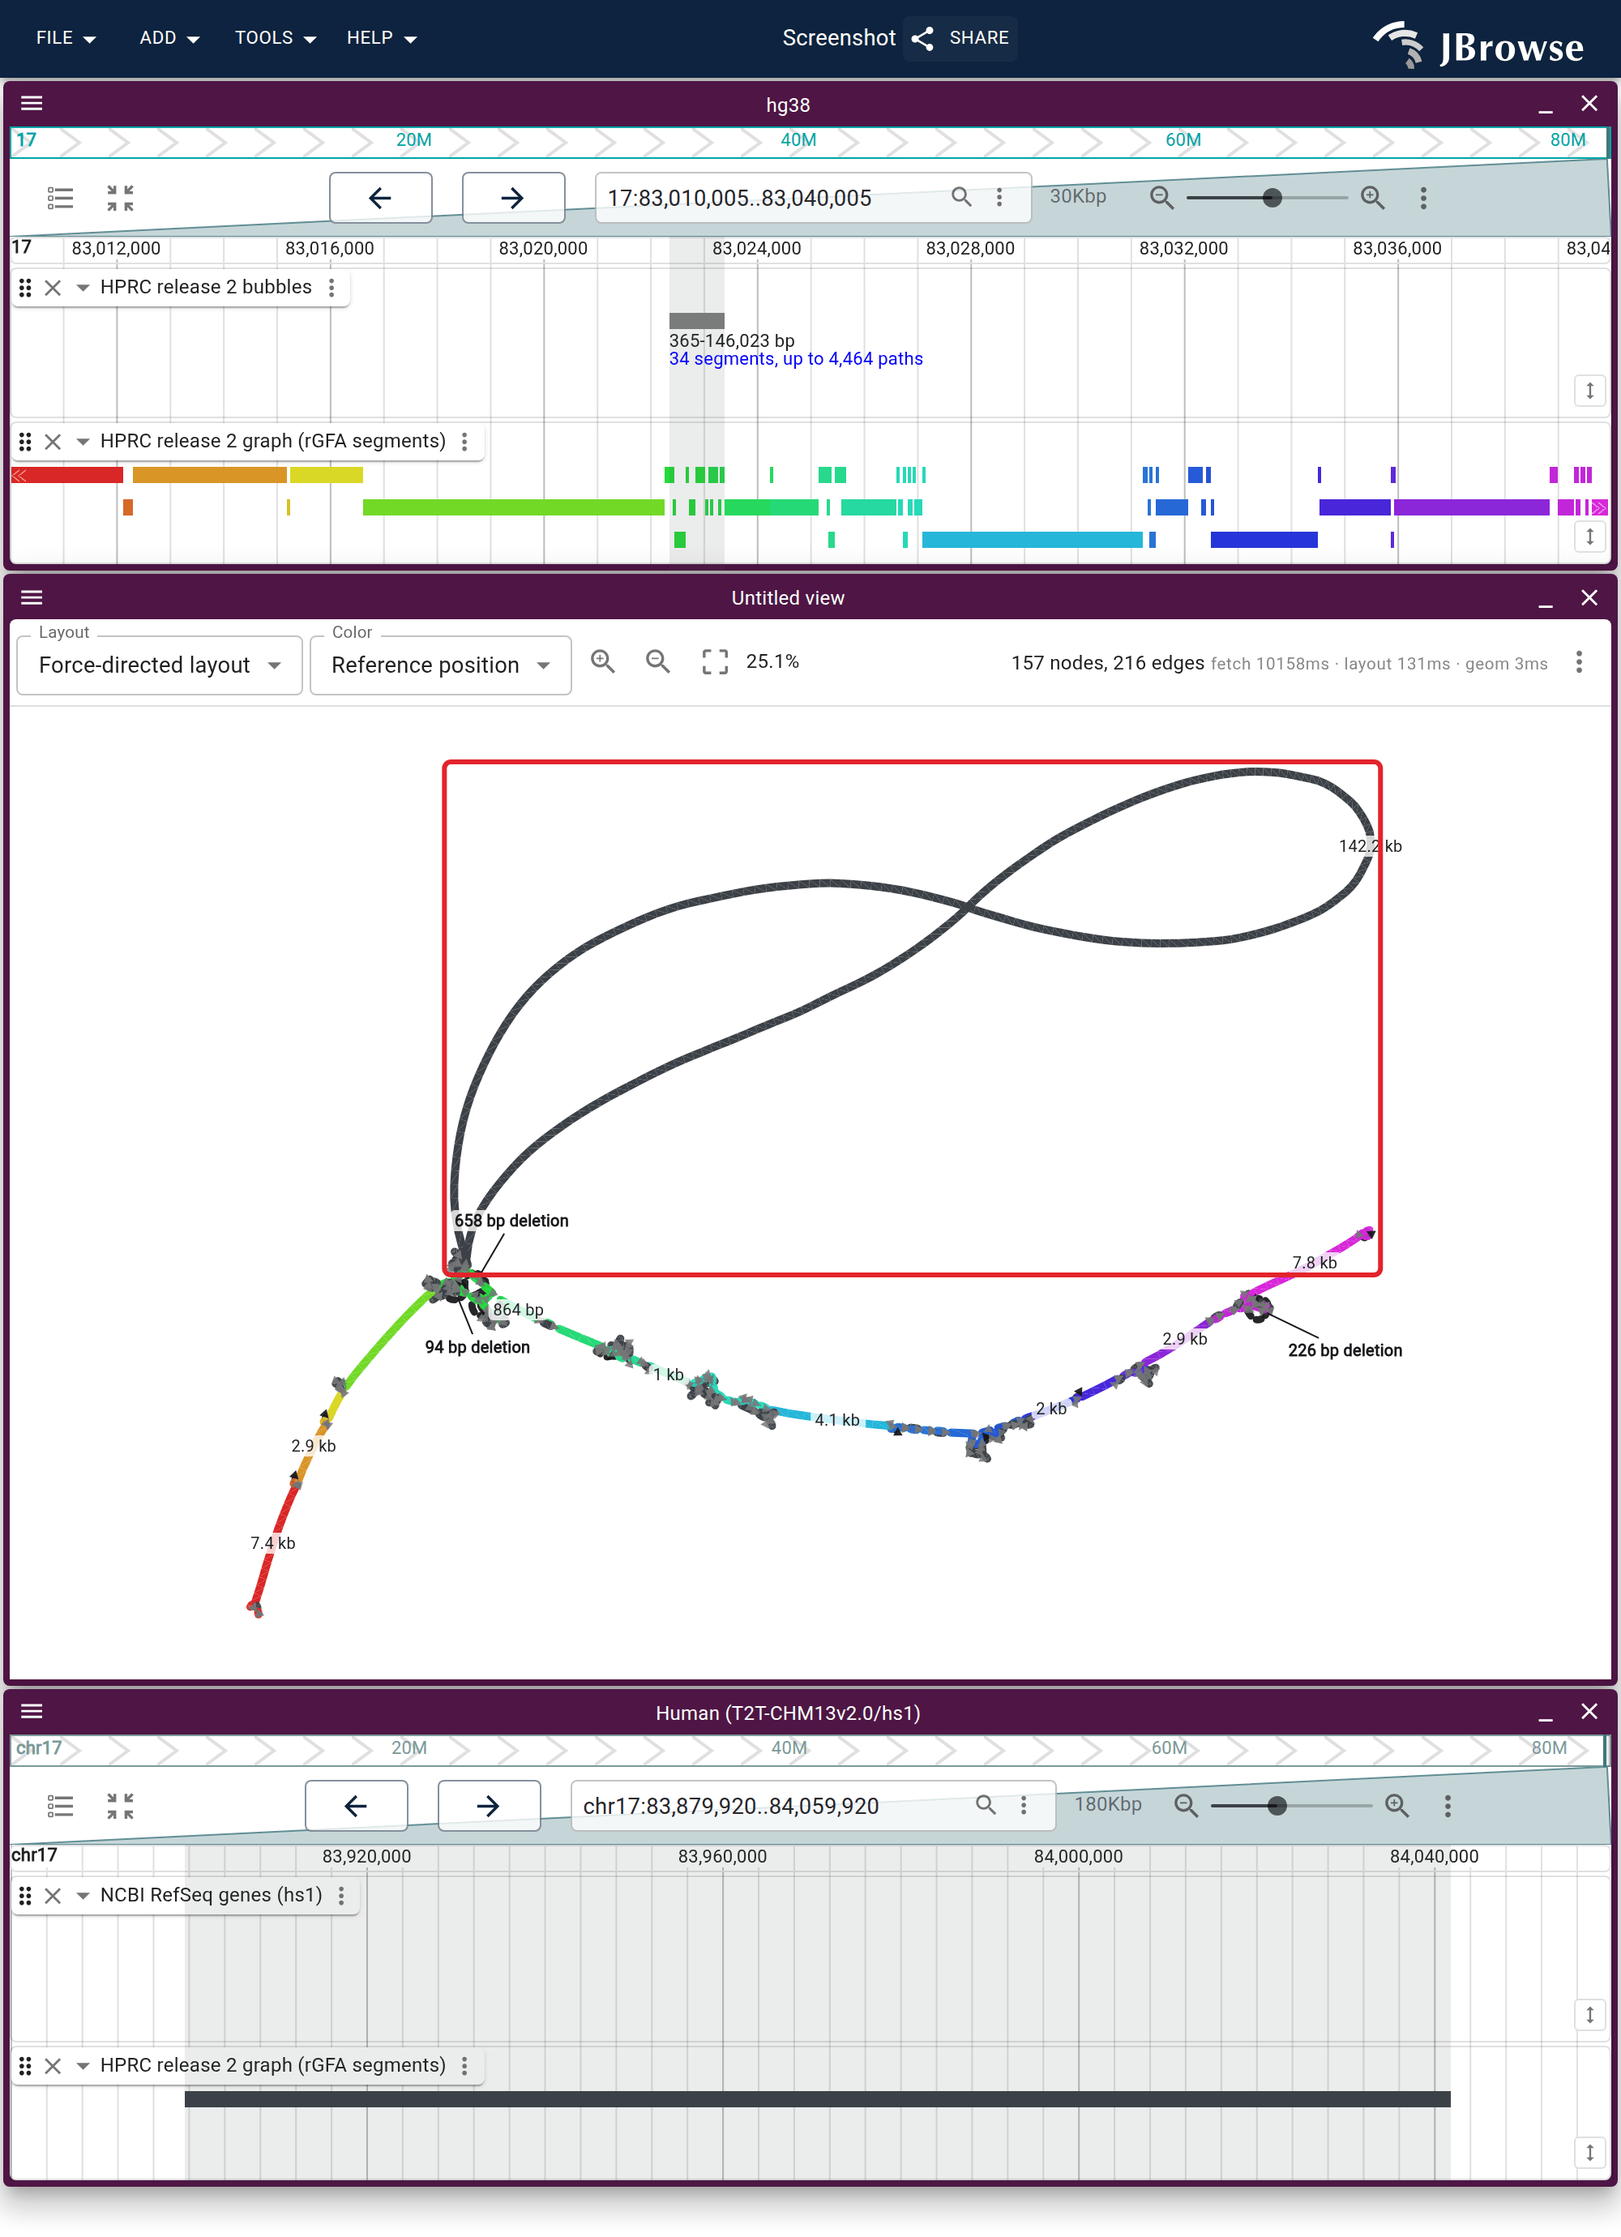
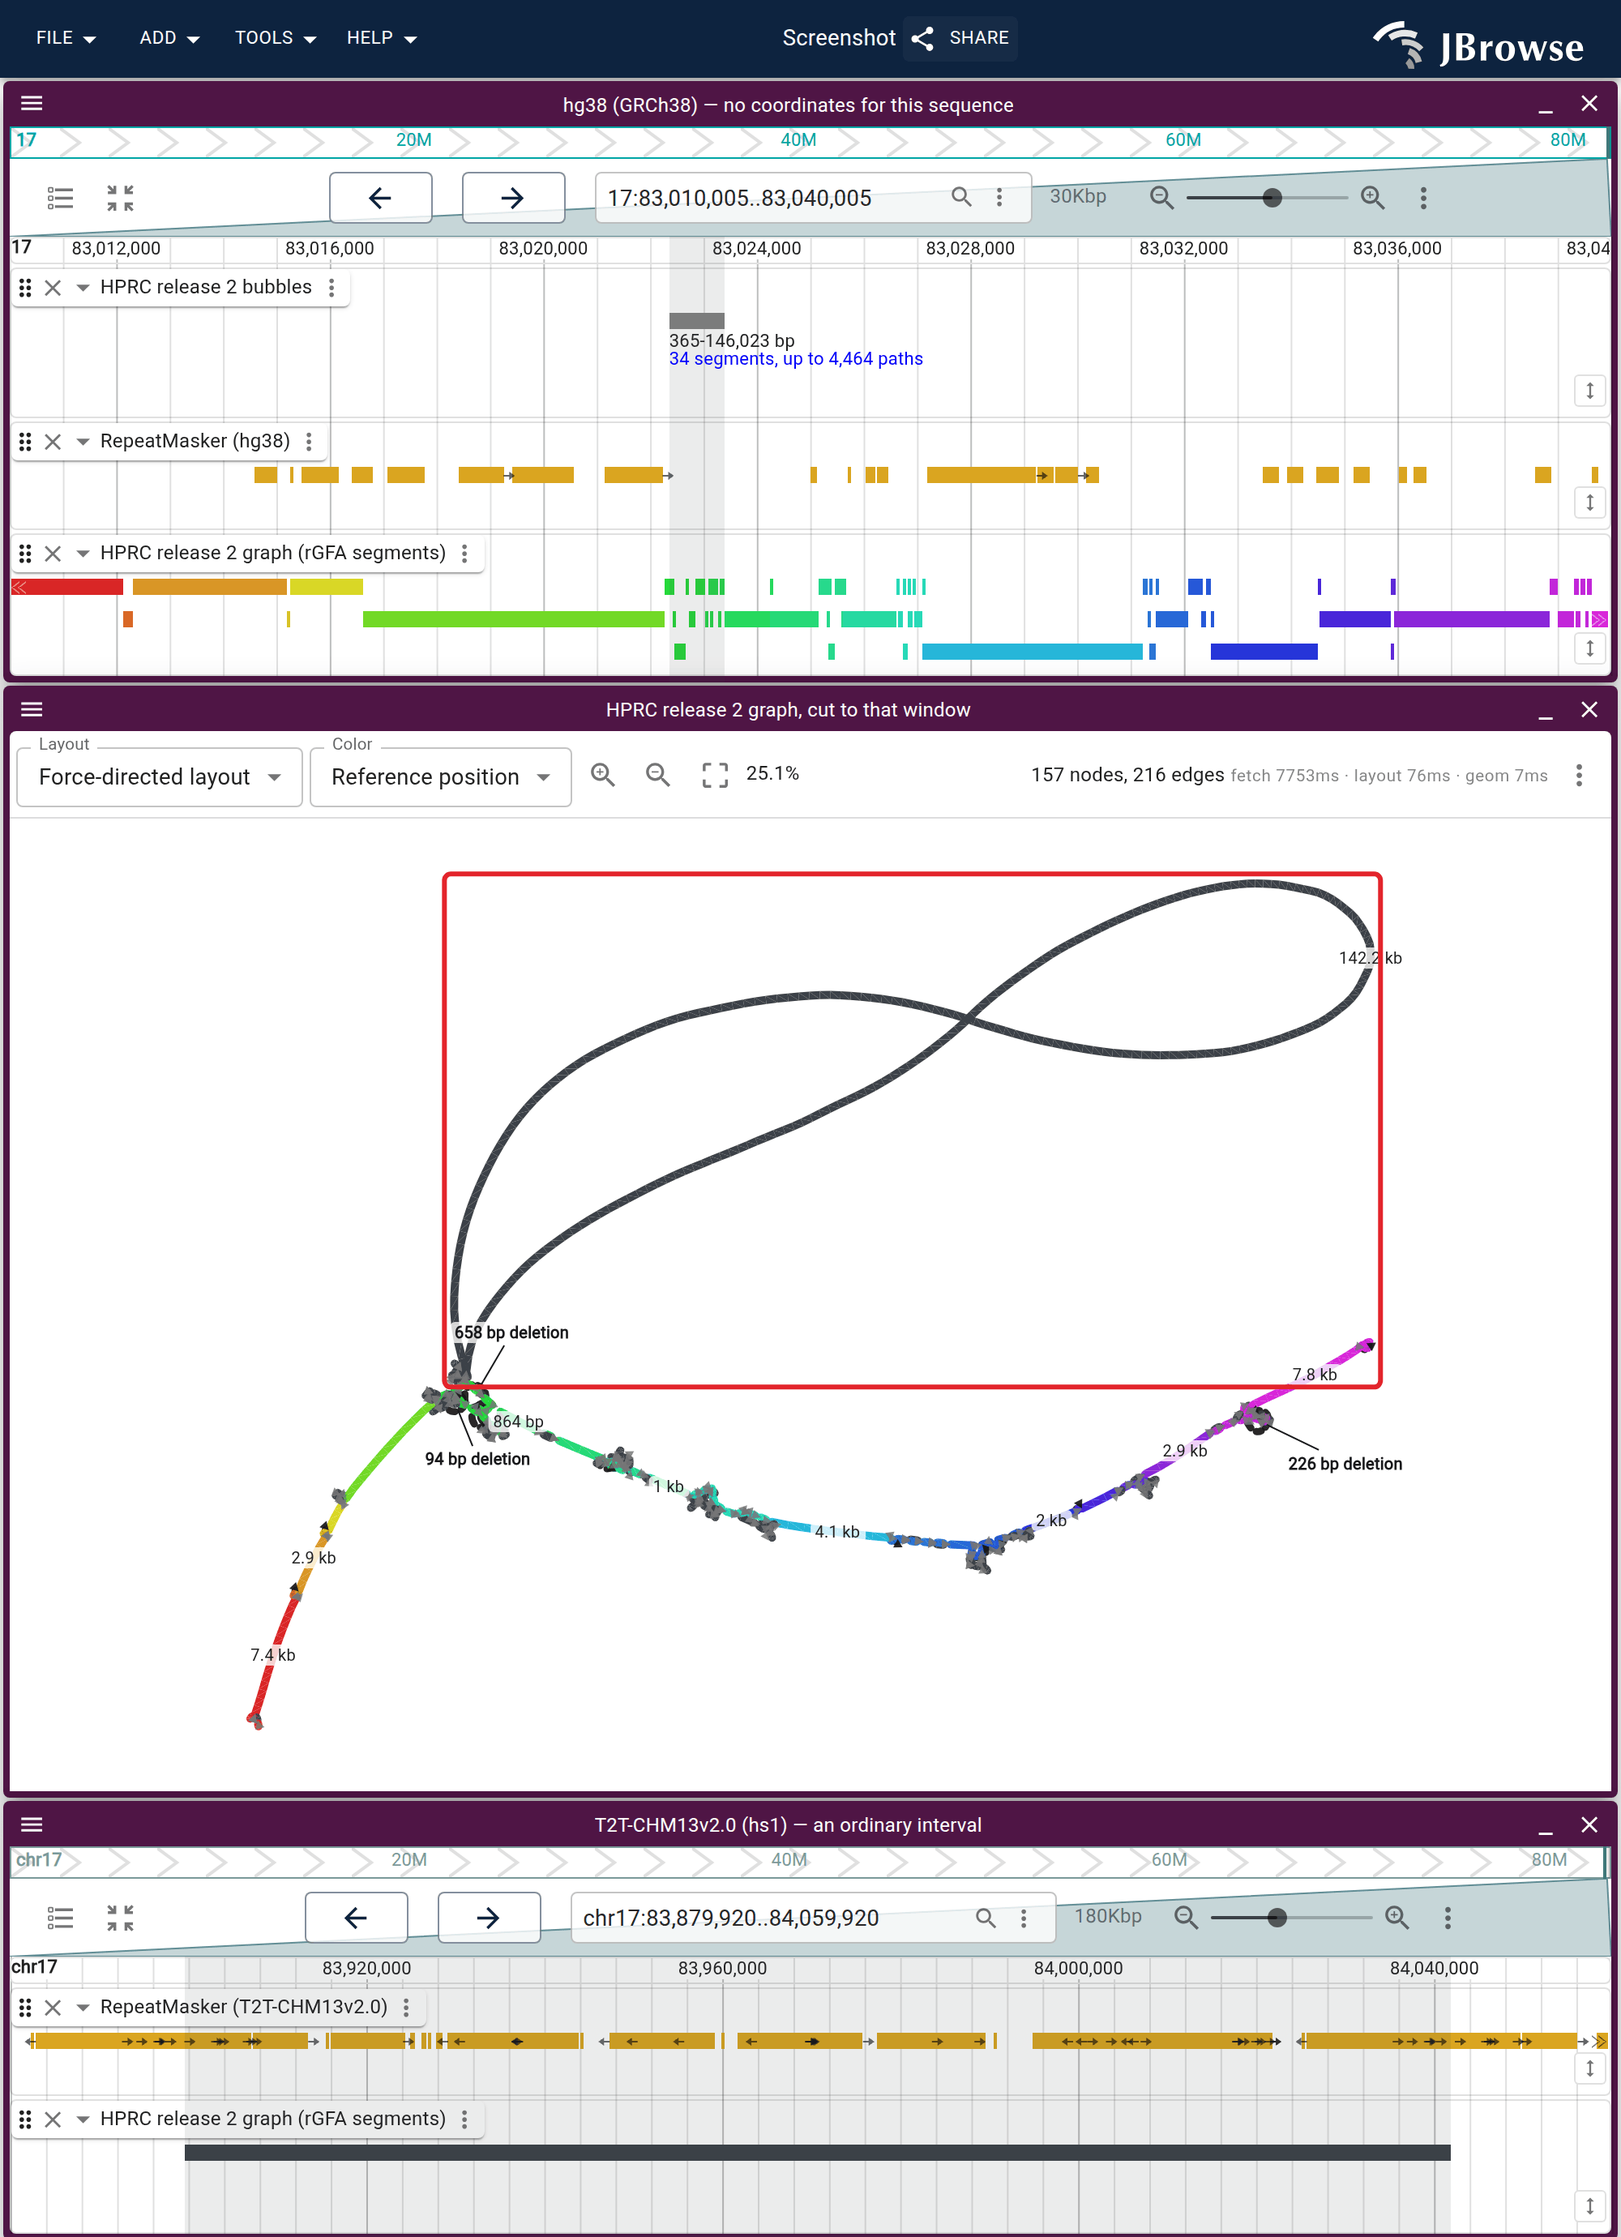
docs(hprc): name the CHM13 figure's panes, and give both a repeat lane
The node-menu figure ringed a black node and produced a 12 kb band, with
nothing in the frame joining the two (review: "it looks like this is
highlighting a 'black' node, instead of the green one"). It is the right node:
s318599 is 1,775 bp of HG01433 hap 2, black because the ramp is reference
position and an allele has none, and the band is the 12,021 bp backbone segment
it attaches across — which is HLA-DRB5. The callout says both numbers.

The CHM13 figure names its three panes through displayName rather than an
overlay, and carries UCSC RepeatMasker on both linear panes: the CHM13-only
142 kb is a near-continuous LINE/L1 run where the GRCh38 window it attaches to
is broken up. It is not a gap GRCh38 never closed — the only hg38 gap record
past chr17:82.5 Mb is the terminal telomere. The empty hs1 gene lane is gone.

Claude-Session: https://claude.ai/code/session_015YyNaRBzEzrDFgSu9gt3Yi

diff --git a/website/scripts/specs/graph.ts b/website/scripts/specs/graph.ts
@@ -258,7 +258,24 @@ const HOVERED_ALLELE = 's2037'
 // The off-reference allele pangenome/hprc_node_menu right-clicks, named rather
 // than measured — see HOVERED_ALLELE. `node scripts/probe-graph-nodes.ts
 // pangenome/hprc_node_menu` prints the cut's ids with their lengths and ranks.
+//
+// It is 1,775 bp of HG01433 hap 2 (`CM086511.1:32,520,440-32,522,215` in the
+// links index), and the two backbone segments it hangs off are s101144, ending
+// at chr6:32,517,416, and s101146, starting at 32,529,437 — so the interval it
+// attaches across is the 12,021 bp s101145, which is what **Highlight in hg38**
+// writes into the linear view. That is also, near exactly, HLA-DRB5
+// (chr6:32,517,353-32,530,287), the gene present only on DR51 haplotypes.
+//
+// Which is why the frame needs the callout below (review: "it looks like this is
+// highlighting a 'black' node, instead of the green one, which is, afaict, the
+// reference path"). Under the reference-position ramp black means "no reference
+// position", i.e. this IS the allele the figure is about, and the green 12 kb
+// node beside it is the reference segment the highlight lands on. Nothing in the
+// frame joined the two, so a ring on a black node over a band 12 kb wide read as
+// the wrong node being ringed.
 const HPRC_ALLELE = 's318599'
+const HPRC_ALLELE_LABEL =
+  'HG01433.2 allele: 1.8 kb\nwhere hg38 has 12 kb (HLA-DRB5)'
 
 // K12's genes, so the linear half of a launch figure says which genes the
 // clicked segment covers rather than being a lane of anonymous blocks. Hosted
@@ -735,6 +752,60 @@ function haplotypeGeneLane(trackId: string) {
     geneGlyphMode: 'longestCoding',
     displayMode: 'compact',
     height: 70,
+  }
+}
+
+// UCSC's RepeatMasker on each of the two human assemblies the CHM13 figure
+// draws, as session tracks: neither is in the fixture config, and both panes
+// need one for the two to be comparable. hg38's is jbrowse.org's own tabix'd
+// copy (the host every other lane in these figures reads); hs1 has no copy
+// there, so it comes off hgdownload's bigBed, which answers ranged reads with
+// CORS in well under a second.
+const HG38_RMSK_TRACK = {
+  type: 'FeatureTrack',
+  trackId: 'hg38_rmsk_ucsc',
+  name: 'RepeatMasker (hg38)',
+  assemblyNames: ['hg38'],
+  adapter: {
+    type: 'BedTabixAdapter',
+    bedGzLocation: {
+      uri: 'https://jbrowse.org/ucsc/hg38/rmsk.bed.gz',
+      locationType: 'UriLocation',
+    },
+    index: {
+      location: {
+        uri: 'https://jbrowse.org/ucsc/hg38/rmsk.bed.gz.csi',
+        locationType: 'UriLocation',
+      },
+      indexType: 'CSI',
+    },
+  },
+}
+const HS1_RMSK_TRACK = {
+  type: 'FeatureTrack',
+  trackId: 'hs1_rmsk_ucsc',
+  name: 'RepeatMasker (T2T-CHM13v2.0)',
+  assemblyNames: ['hs1'],
+  adapter: {
+    type: 'BigBedAdapter',
+    bigBedLocation: {
+      uri: 'https://hgdownload.soe.ucsc.edu/gbdb/hs1/t2tRepeatMasker/chm13v2.0_rmsk.bb',
+      locationType: 'UriLocation',
+    },
+  },
+}
+
+// A repeat lane is read as a density, not as a list of elements: collapsed, so
+// the whole annotation is one strip whose coverage of the axis is the thing to
+// compare between the two panes, and no labels, because 171 repeat names over
+// 180 kb is a wall of small print that says nothing the strip does not.
+function repeatLane(trackId: string) {
+  return {
+    trackId,
+    type: 'LinearBasicDisplay',
+    displayMode: 'collapsed',
+    showLabels: 'none',
+    height: 34,
   }
 }
 
@@ -2691,8 +2762,28 @@ export const graphSpecs: ScreenshotSpec[] = [
   // that window, where the boxed node is 142 kb of CHM13 attached at a 75 bp
   // anchor -- an insertion the reference has no coordinates for, which is why the
   // top pane cannot show it. Bottom: that node on CHM13's own chr17, where it is
-  // an ordinary interval with RefSeq genes over it and the same segments track
-  // draws it as one feature.
+  // an ordinary interval and the same segments track draws it as one feature.
+  //
+  // A REPEATMASKER LANE ON BOTH PANES, which is what the two panes are otherwise
+  // missing (review: "there is no gene in this region, but if some other track
+  // would help potentially explain why this was missed in hg38 e.g. repeats can
+  // add that"). There is no gene, and there is no assembly gap either -- UCSC's
+  // hg38 `gap` track has one record past 82.5 Mb on chr17 and it is the terminal
+  // 10 kb telomere, so this is a real insertion allele rather than a hole GRCh38
+  // never closed. What the lanes do show is the mechanism: the two are the same
+  // UCSC RepeatMasker annotation and the CHM13 interval is nearly solid where the
+  // GRCh38 window it attaches to is sparse, almost all of it LINE/L1.
+  //
+  // The hs1 lane is hgdownload's bigBed, which the note below rules out for the
+  // 2bit and does not rule out here: that failure was a whole-file GET of a
+  // multi-gigabyte sequence file, where this is a handful of ranged index reads
+  // over a 180 kb window, and hgdownload serves those with CORS in well under a
+  // second. The hg38 lane is jbrowse.org's own tabix'd copy, which is what the
+  // rest of these figures read.
+  //
+  // The bottom pane's gene lane is GONE with it, for the reason the top pane
+  // never had one: `jbrowse.org/ucsc/hs1/hs1.gff.gz` has nothing in this window,
+  // so it was 70 px of empty lane under a caption about a 142 kb insertion.
   //
   // `resolveContributors` matches a node's PanSN sample against the session's
   // assembly *names*, so the assembly has to be named `CHM13` for the node menu to
@@ -2710,9 +2801,18 @@ export const graphSpecs: ScreenshotSpec[] = [
     mode: 'url',
     name: 'pangenome/hprc_chm13_allele',
     url: sessionSpec(HPRC_CONFIG, {
+      sessionTracks: [HG38_RMSK_TRACK, HS1_RMSK_TRACK],
       views: [
         {
           type: 'LinearGenomeView',
+          // Which pane is which, in the app rather than over it (review: "might
+          // want text annotation toward the top that says HG38 and text
+          // annotation at the bottom that says T2T-CHM13v2.0"). A view header
+          // falls back to its assembly names, which read `hg38` and
+          // `Human (T2T-CHM13v2.0/hs1)` and are easy to miss between three
+          // panes; naming all three, graph included, leaves no `Untitled view`
+          // in the middle of the stack.
+          displayName: 'hg38 (GRCh38) — no coordinates for this sequence',
           assembly: 'hg38',
           loc: CHM13_WINDOW,
           highlight: [{ ...CHM13_BUBBLE, color: 'rgba(60,65,72,0.10)' }],
@@ -2732,11 +2832,13 @@ export const graphSpecs: ScreenshotSpec[] = [
               jexlFiltersSetting: ['jexl:feature.longestAlleleLength>100000'],
               height: 60,
             },
+            repeatLane(HG38_RMSK_TRACK.trackId),
             hprcSegmentsLane(CHM13_REGION),
           ],
         },
         {
           type: 'GraphGenomeView',
+          displayName: 'HPRC release 2 graph, cut to that window',
           loadedTrackId: SEGMENTS_TRACK,
           loadedRegion: CHM13_REGION,
           layoutMode: 'force',
@@ -2744,19 +2846,14 @@ export const graphSpecs: ScreenshotSpec[] = [
         },
         {
           type: 'LinearGenomeView',
+          displayName: 'T2T-CHM13v2.0 (hs1) — an ordinary interval',
           assembly: 'hs1',
           loc: CHM13_ALLELE_WINDOW,
           // the node's own span, drawn by the app from its coordinates rather
           // than painted over the capture
           highlight: [{ ...CHM13_ALLELE, color: 'rgba(60,65,72,0.10)' }],
           tracks: [
-            {
-              trackId: 'hs1_ncbiRefSeq_ucsc',
-              type: 'LinearBasicDisplay',
-              geneGlyphMode: 'longestCoding',
-              displayMode: 'compact',
-              height: 70,
-            },
+            repeatLane(HS1_RMSK_TRACK.trackId),
             // the same lane as the pane above, deliberately: a display's config
             // is per track, so a second color here would repaint the first pane
             // too. It needs no second color anyway -- the ramp's other branch
@@ -3268,11 +3365,26 @@ export const graphSpecs: ScreenshotSpec[] = [
     // says which node: a context menu opens AT the cursor, so it covers the thing
     // it was opened on, and in a force drawing there is no row label to fall back
     // on.
+    //
+    // The label is what the ring alone could not say (see HPRC_ALLELE): both
+    // numbers are the graph's own, so the frame states that a 1.8 kb node ringed
+    // in black produced a 12 kb band, rather than leaving the mismatch to be read
+    // as the wrong node being ringed. Placed up and left of the node, which is
+    // the empty corner of this drawing; the menu takes the other side.
     annotations: [
       {
         type: 'circle',
         anchor: { view: 1, graphNode: HPRC_ALLELE },
         radius: 22,
+      },
+      {
+        type: 'text',
+        text: HPRC_ALLELE_LABEL,
+        anchor: { view: 1, graphNode: HPRC_ALLELE },
+        dx: -120,
+        dy: -170,
+        maxWidth: 230,
+        fontSize: 16,
       },
       { type: 'box', anchor: { text: 'Highlight in hg38' } },
     ],

diff --git a/website/docs/tutorials/pangenome_hprc.md b/website/docs/tutorials/pangenome_hprc.md
@@ -429,7 +429,7 @@ At HPRC scale the same answer comes from `minigraph --call` over the assemblies,
 from the `.gbz` and vg, or from the [callset](#the-variant-callset) at that
 site.
 
-<Figure caption="Right-clicking one haplotype's allele (circled), over the band Highlight in hg38 left in the linear view above. The menu works in the GRCh38 interval the allele attaches to, not the haplotype's own coordinates: that assembly is not loaded, and no session loads all 464. The band stays until it is removed, so the answer survives letting go of the mouse." src="/img/pangenome/hprc_node_menu.png" />
+<Figure caption="Right-clicking one haplotype's allele (circled), over the band Highlight in hg38 left in the linear view above. The ringed node is black because the drawing is colored by reference position and an allele has none; the band it produces is the 12 kb backbone segment it attaches across, which here is HLA-DRB5. The menu works in that GRCh38 interval, not the haplotype's own coordinates: that assembly is not loaded, and no session loads all 464. The band stays until it is removed, so the answer survives letting go of the mouse." src="/img/pangenome/hprc_node_menu.png" />
 
 The lanes above combine into one route: rubberband a locus into a graph,
 right-click an allele to put the linear view on its GRCh38 interval, then read
@@ -512,7 +512,7 @@ the same way `hg38` asks for `GRCh38#0#chr17`. This replaces the track
 }
 ```
 
-<Figure caption="One donor node, on both coordinate systems. Top: the GRCh38 window, its bubble lane cut to bubbles holding an allele over 100 kb, with the banded bubble a 1,023 bp reference span. Middle: the graph cut from that window, where the boxed node is 142.2 kb of CHM13 sequence attached at a 75 bp anchor. Bottom: that node on hs1's own chr17, an interval with RefSeq genes over it, drawn by the same segments track." src="/img/pangenome/hprc_chm13_allele.png" />
+<Figure caption="One donor node, on both coordinate systems. Top: the GRCh38 window, its bubble lane cut to bubbles holding an allele over 100 kb, with the banded bubble a 1,023 bp reference span. Middle: the graph cut from that window, where the boxed node is 142.2 kb of CHM13 sequence attached at a 75 bp anchor. Bottom: that node on hs1's own chr17, an ordinary interval drawn by the same segments track. Both linear panes carry UCSC's RepeatMasker: the CHM13-only sequence is a near-continuous run of it, almost all LINE/L1." src="/img/pangenome/hprc_chm13_allele.png" />
 
 CHM13 entered this graph at rank 61, after sixty haplotypes, so most of what it
 carries was already in the graph and little is credited to it:
